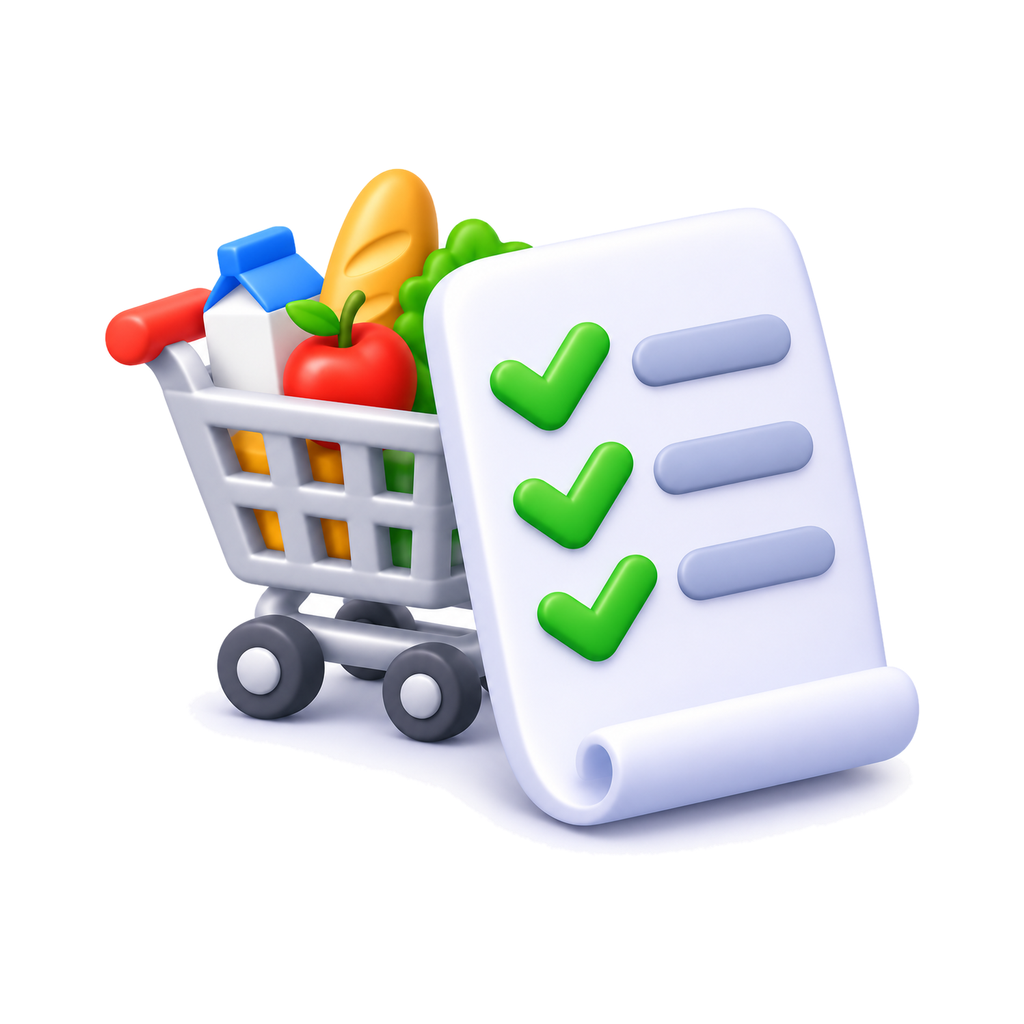
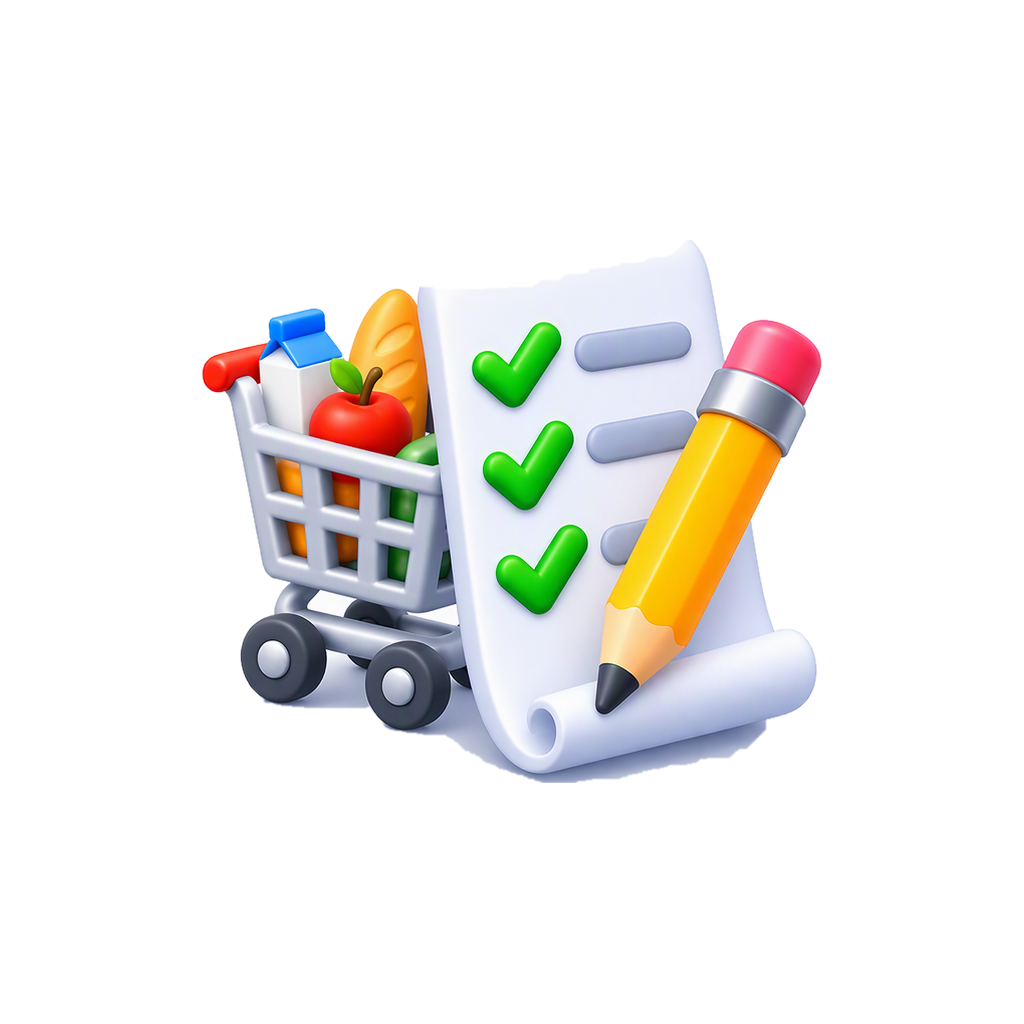
Trois images Emplettes : application, Accueil, Préparer, Courses ; barre du bas agrandie [apk]
Claude-Session: https://claude.ai/code/session_01KFaY6PJWm9LRitQA9aQjkj

Changed region(s): [[0.0938, 0.1562, 0.9062, 0.8438]]

diff --git a/lib/ecrans/accueil.dart b/lib/ecrans/accueil.dart
@@ -140,7 +140,7 @@ class _EnTetePhoto extends StatelessWidget {
                       const SizedBox(width: 18),
                       Expanded(
                         child: Text('Version $versionApplication',
-                            style: _surPhoto(Charte.texte(11, couleur: const Color(0xEEFFFFFF)))),
+                            style: _surPhoto(Charte.texte(12.5, couleur: const Color(0xEEFFFFFF)))),
                       ),
                       const BoutonSynchro(),
                       boutonEnTete(Icons.help_outline, 'Aide', () => montrerAide(context, 'Accueil', Aides.accueil)),
@@ -152,8 +152,17 @@ class _EnTetePhoto extends StatelessWidget {
                     child: Column(
                       crossAxisAlignment: CrossAxisAlignment.start,
                       children: [
-                        Text('Bonjour !', style: _surPhoto(Charte.texte(30, gras: true, couleur: Charte.blanc))),
-                        Text('Prêt(e) pour vos courses ?', style: _surPhoto(Charte.texte(16, couleur: Charte.blanc))),
+                        // 03/11/2026 (Aristide) : l'image d'Emplettes à la place de « Bonjour ! », le texte à sa droite en plus petit.
+                        Row(children: [
+                          const ImageEmplettes('complet', key: ValueKey('accueil-emplettes'), taille: 96),
+                          const SizedBox(width: 14),
+                          Expanded(
+                            child: Column(crossAxisAlignment: CrossAxisAlignment.start, children: [
+                              Text('Bonjour !', style: _surPhoto(Charte.texte(22, gras: true, couleur: Charte.blanc))),
+                              Text('Prêt(e) pour vos courses ?', style: _surPhoto(Charte.texte(14, couleur: Charte.blanc))),
+                            ]),
+                          ),
+                        ]),
                       ],
                     ),
                   ),
@@ -279,7 +288,11 @@ class _Etapes extends StatelessWidget {
             child: Column(
               children: [
                 // 01/11/2026 (Aristide) : une icône à la place du numéro.
-                Icone(_icones[i], size: 34),
+                // 03/11/2026 : les images d'Emplettes pour préparer et faire les courses.
+                if (i == 1 || i == 3)
+                  ImageEmplettes(ImageEmplettes.pourIcone(_icones[i]), taille: 44)
+                else
+                  Icone(_icones[i], size: 44),
                 const SizedBox(height: 6),
                 Text(_etapes[i], textAlign: TextAlign.center, style: _surPhoto(Charte.texte(13, gras: true, couleur: Charte.blanc))),
               ],

diff --git a/lib/composants/entete.dart b/lib/composants/entete.dart
@@ -28,7 +28,8 @@ class EnTeteFenetre extends StatelessWidget {
   });
   final String titre;
 
-  /// N'est plus affichée (pas d'icônes dans l'application).
+  /// Choisit l'image de signature des onglets (sans flèche de retour) : liste et crayon (Préparer),
+  /// liste et chariot (Courses), engrenage (Gérer), sinon l'image complète d'Emplettes.
   final IconData? icone;
   final String? sousTitre;
 
@@ -82,8 +83,9 @@ class EnTeteFenetre extends StatelessWidget {
                 if (!retour)
                   Padding(
                     padding: const EdgeInsets.only(left: 2, right: 8),
-                    child: Image.asset('assets/icone_signature.png',
-                        key: const ValueKey('signature'), width: 30, height: 30, filterQuality: FilterQuality.medium),
+                    child: icone == Icons.tune
+                        ? Icone(icone, key: const ValueKey('signature'), size: 44)
+                        : ImageEmplettes(ImageEmplettes.pourIcone(icone), key: const ValueKey('signature'), taille: 46),
                   ),
                 // Toucher le titre propose les actions de la fenêtre, puis l'aide, dans un volet.
                 Expanded(

diff --git a/lib/composants/icone.dart b/lib/composants/icone.dart
@@ -28,3 +28,22 @@ class Icone extends StatelessWidget {
     );
   }
 }
+
+/// 03/11/2026 (Aristide) : les trois images d'Emplettes (assets/emplettes/) :
+/// « complet » (chariot, liste et crayon) = l'application et l'Accueil, « liste_crayon » = Préparer, « liste_chariot » = Courses.
+class ImageEmplettes extends StatelessWidget {
+  const ImageEmplettes(this.nom, {super.key, required this.taille});
+  final String nom;
+  final double taille;
+
+  /// Image de l'onglet dont l'en-tête porte cette icône, sinon l'image complète.
+  static String pourIcone(IconData? i) => switch (i) {
+        Icons.checklist => 'liste_crayon',
+        Icons.shopping_cart_outlined => 'liste_chariot',
+        _ => 'complet',
+      };
+
+  @override
+  Widget build(BuildContext context) => Image.asset('assets/emplettes/$nom.png',
+      width: taille, height: taille, fit: BoxFit.contain, filterQuality: FilterQuality.medium);
+}

diff --git a/lib/ecrans/coquille.dart b/lib/ecrans/coquille.dart
@@ -67,7 +67,11 @@ class BarreOnglets extends StatelessWidget {
                         borderRadius: BorderRadius.circular(14),
                       ),
                       child: Stack(alignment: Alignment.center, children: [
-                        Positioned(top: 0, child: Icone(entrees[i].$1, size: 46, color: Charte.cadre)),
+                        Positioned(
+                            top: 0,
+                            child: i == 3
+                                ? Icone(entrees[i].$1, size: 52, color: Charte.cadre)
+                                : ImageEmplettes(i == 0 ? 'complet' : ImageEmplettes.pourIcone(entrees[i].$1), taille: 54)),
                         Positioned(
                           bottom: 1,
                           child: Text(entrees[i].$2,

diff --git a/lib/theme.dart b/lib/theme.dart
@@ -135,7 +135,7 @@ class Charte {
   static const double barreNavigation = 64;
   static const double enTeteNiveau = 52;
   static const double sousOnglets = 44;
-  static const double barreOnglets = 64;
+  static const double barreOnglets = 76;
   static const double puce = 36;
   static const double bouton = 48;
   static const double selecteurQuantite = 34;
